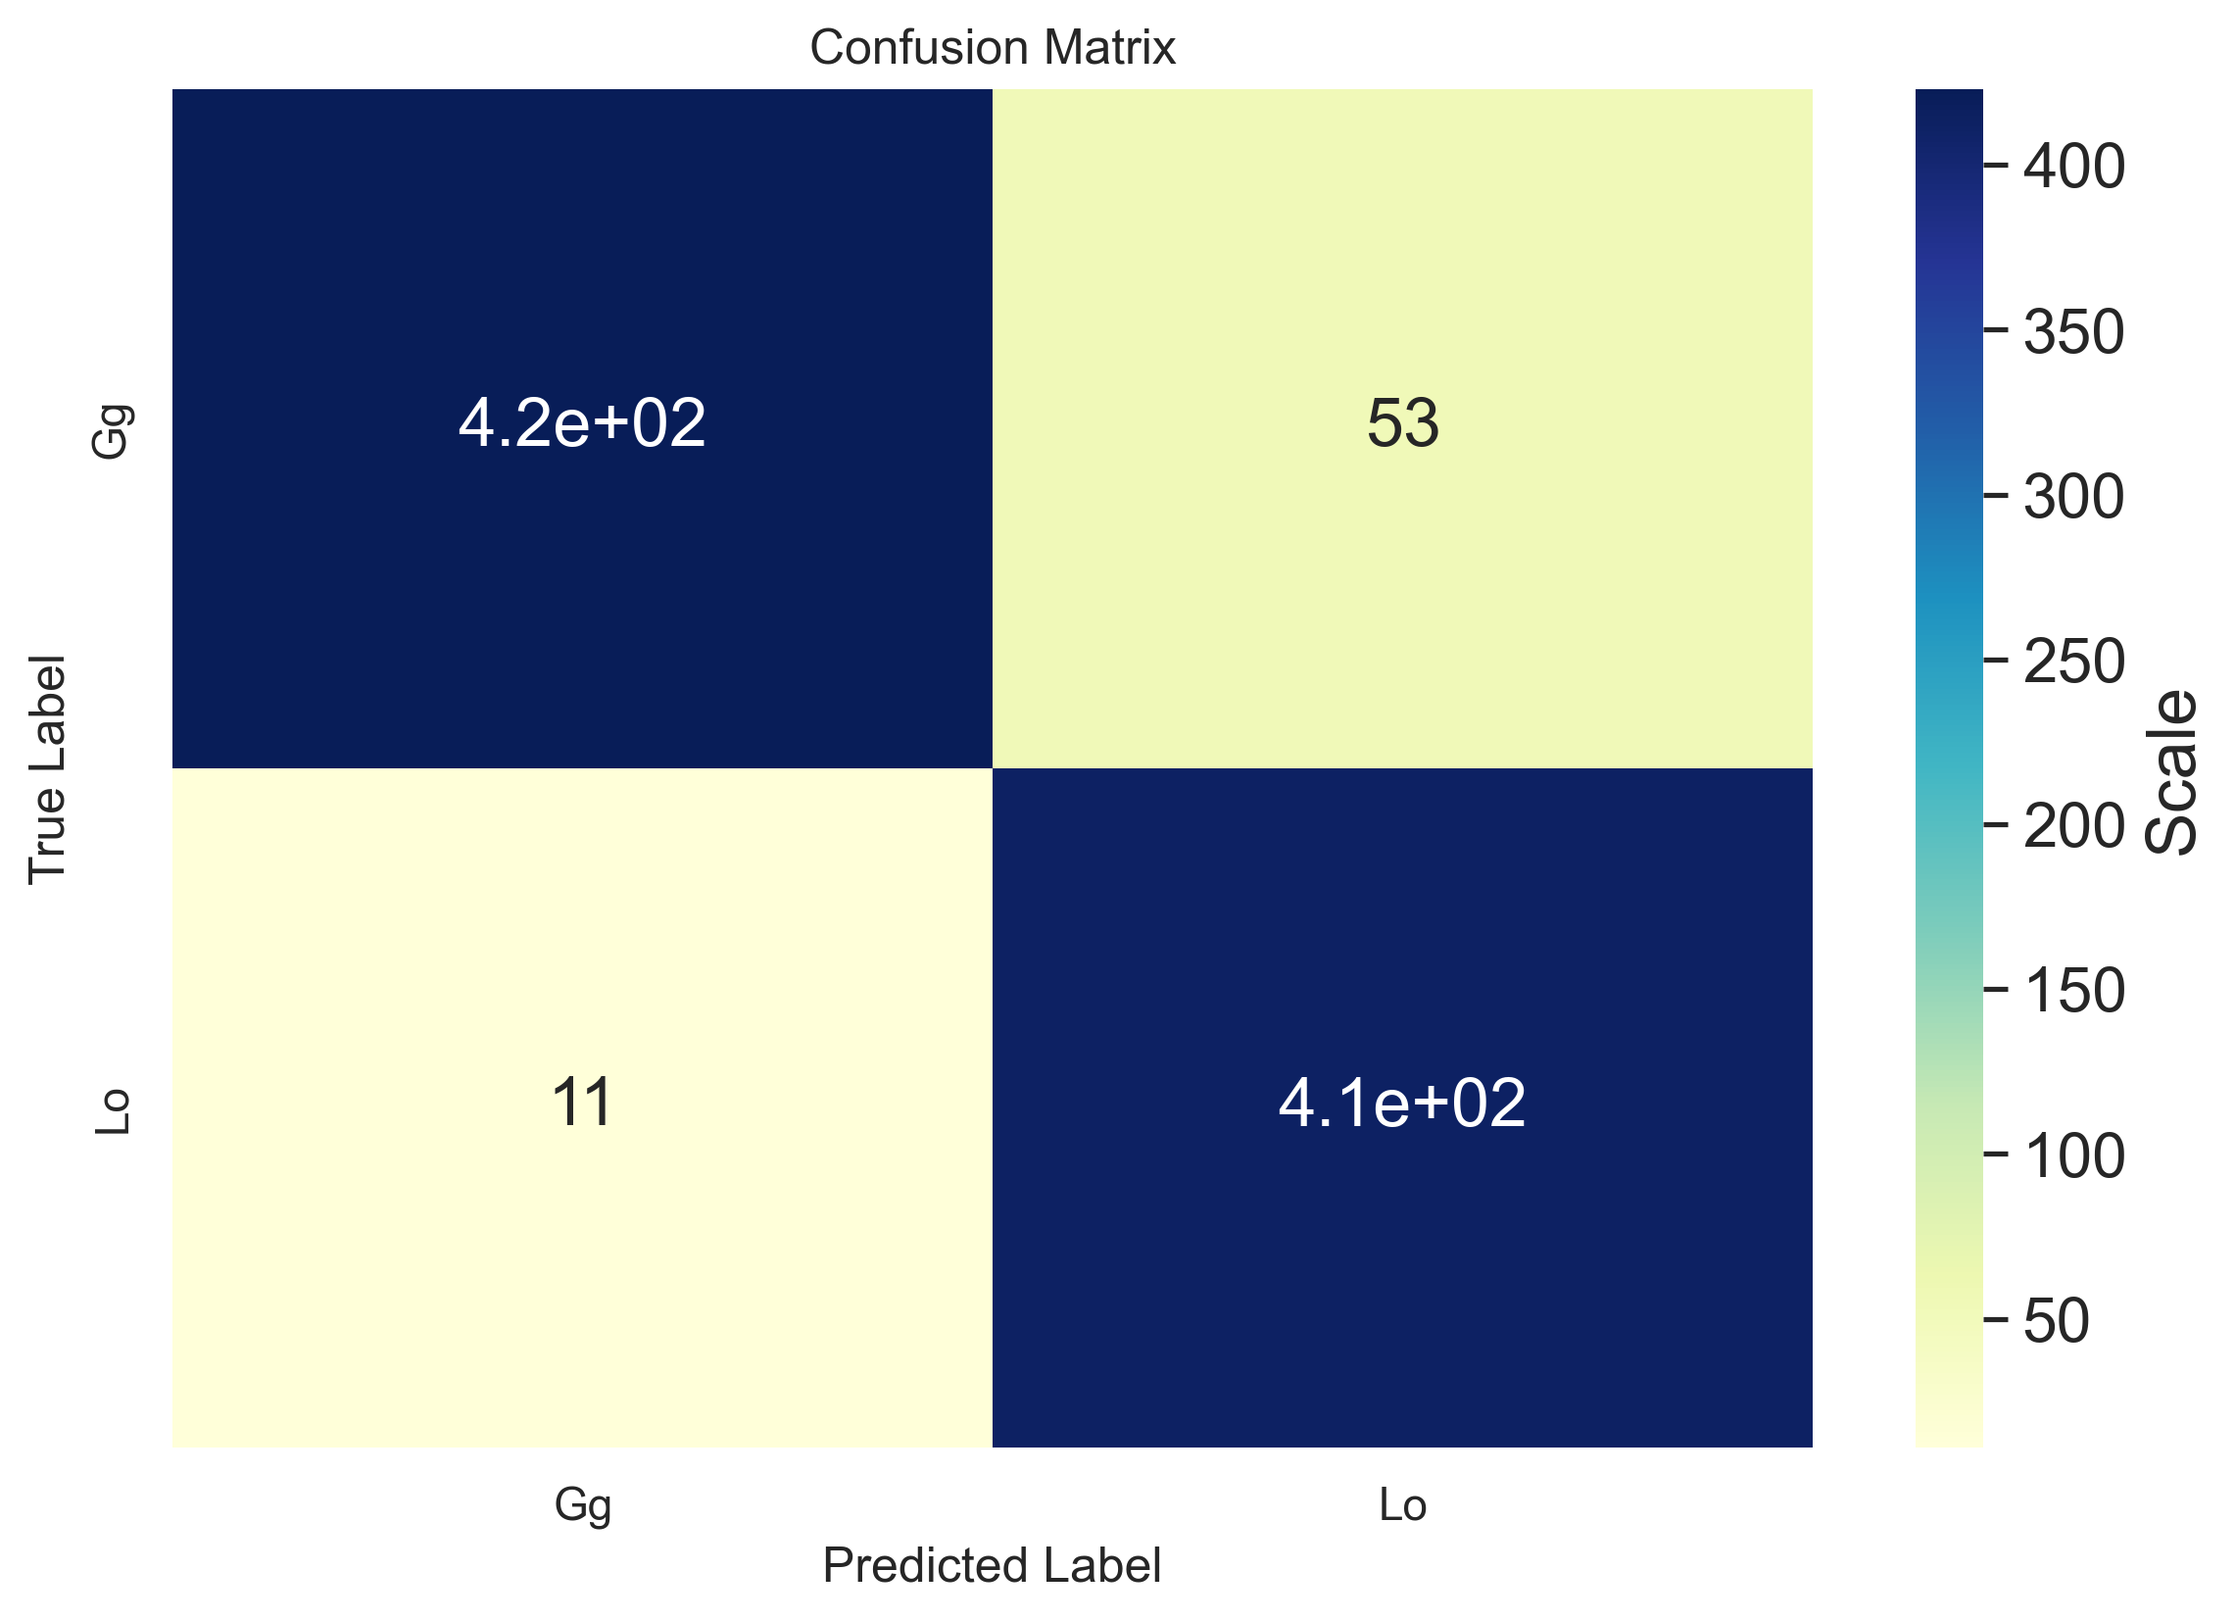
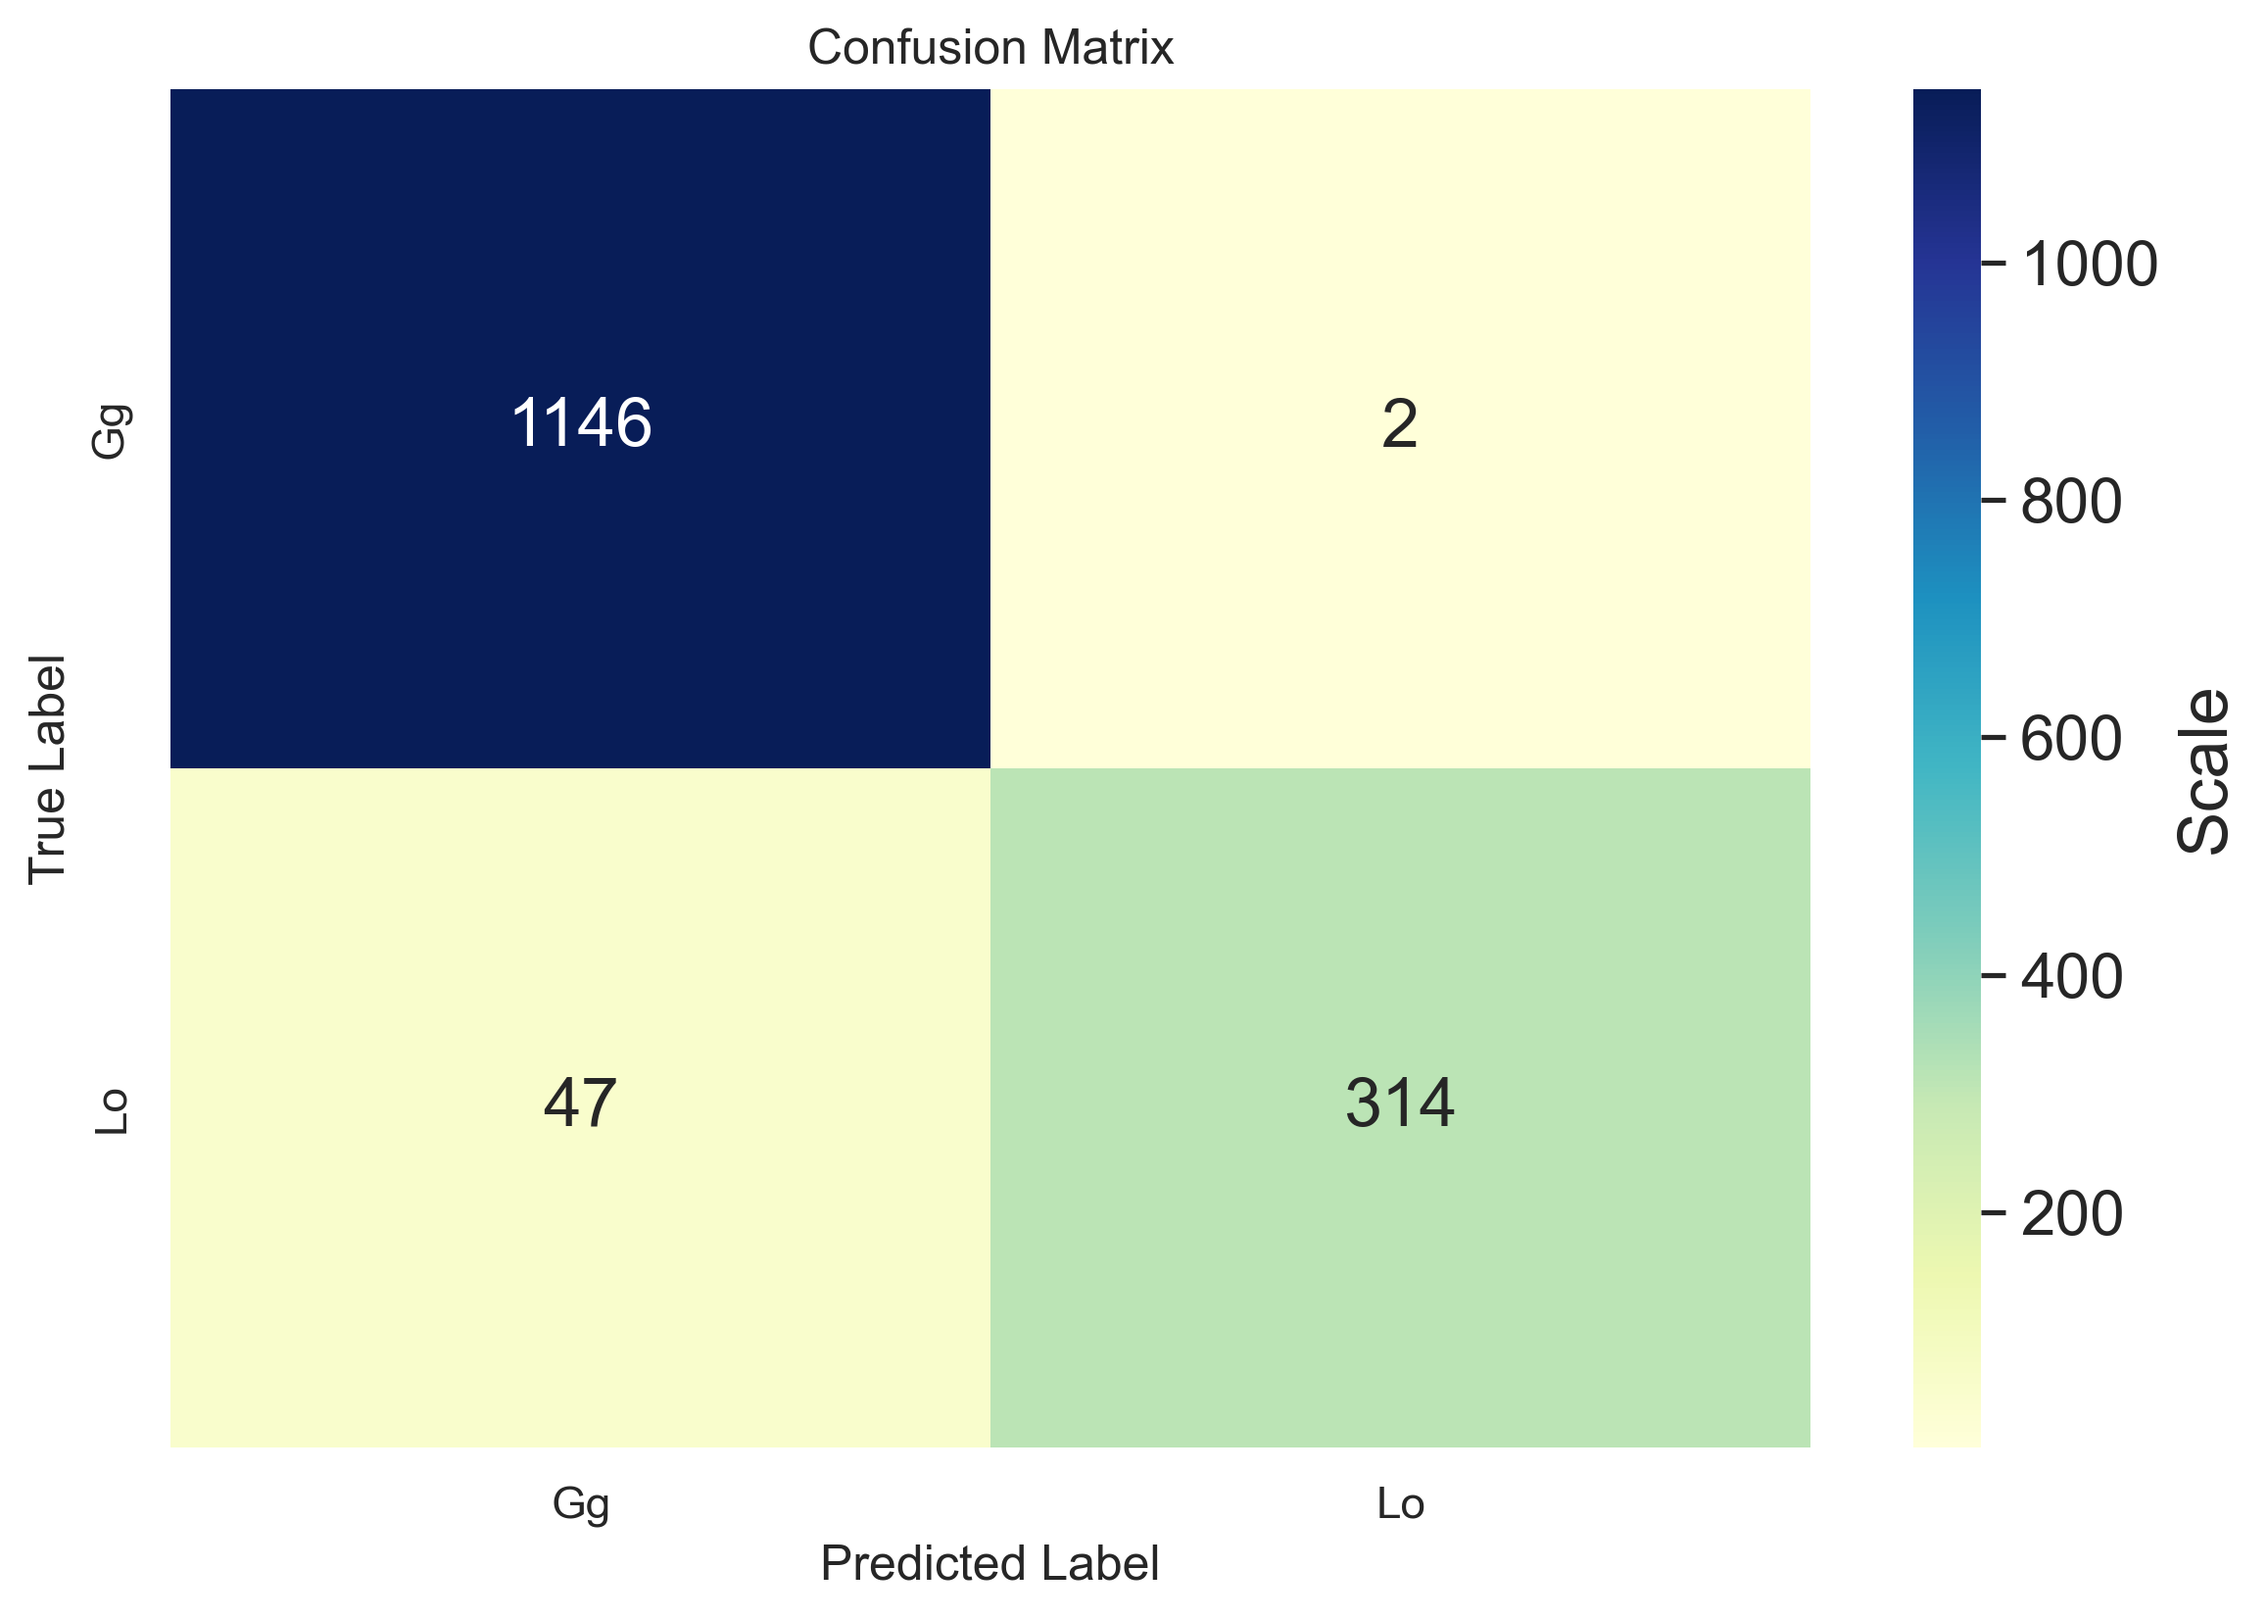
improved relu neural net

diff --git a/pre_processing.py b/pre_processing.py
@@ -4,10 +4,11 @@ from sklearn.model_selection import train_test_split
 import os
 
 def pre_processing(data_directory, use_onlyN):
+    # grab directory in data_directory list
     gg_dir = os.path.abspath(data_directory[0])
     lo_dir = os.path.abspath(data_directory[1])
 
-    # get list of click files for each species
+    # create list of files for each species
     ggfiles = util.get_files(gg_dir, ".czcc", use_onlyN)
     lofiles = util.get_files(lo_dir, ".czcc", use_onlyN)
 
@@ -16,17 +17,18 @@ def pre_processing(data_directory, use_onlyN):
     lometa_data = util.parse_files(lofiles)
     test_meta_data = ggmeta_data[0]
 
-    # create dictionaries keyed by day
-    # key=datetime.start value=list[tuples (.site, label, .start, .features)]
+    # create dictionaries key is day and value is list of tuples with HARP file metadata
+    # key=datetime.start value=list[(.site, label, .start, .features), ...]
     gg_day_dict = split_by_day(ggmeta_data)
     lo_day_dict = split_by_day(lometa_data)
+
 
     # create lists of days in dictionaries
     gg_keys = list(gg_day_dict.keys())
     lo_keys = list(lo_day_dict.keys())
-
-    gg_train_test_days = train_test_split(gg_keys, test_size=0.33, random_state=42)
-    lo_train_test_days = train_test_split(lo_keys, test_size=0.33, random_state=42)
+    # test_size 0.33
+    gg_train_test_days = train_test_split(gg_keys, test_size=0.66, random_state=42)
+    lo_train_test_days = train_test_split(lo_keys, test_size=0.66, random_state=42)
 
     gg_train_days = gg_train_test_days[0]
     gg_test_days = gg_train_test_days[1]

diff --git a/dolphin_id.py b/dolphin_id.py
@@ -28,7 +28,7 @@ def dolphin_classifier(data_directory):
 
     plt.ion()   # enable interactive plotting
 
-    #use_onlyN = np.Inf  # use this to get all files
+    # use this to get all files
     use_onlyN = np.Inf
 
     gg_day_dict, gg_train_days, gg_test_days, lo_day_dict, lo_train_days, lo_test_days = pre_processing(data_directory, use_onlyN)
@@ -39,6 +39,7 @@ def dolphin_classifier(data_directory):
 
     model = Sequential()
     model.add(Dense(100, input_dim=20, activation='relu', kernel_regularizer='l2'))
+    model.add(Dense(100, activation='relu', kernel_regularizer='l2'))
     model.add(Dense(100, activation='relu', kernel_regularizer='l2'))
     model.add(Dense(100, activation='relu', kernel_regularizer='l2'))
     model.add(Dense(2, activation='softmax'))
@@ -57,11 +58,11 @@ def dolphin_classifier(data_directory):
     error_rate = (confoos[0][1] + confoos[1][0]) / (confoos[0][0] + confoos[1][1])
     print("The error rate is: ", error_rate)
 
-    seaborn.set(color_codes=True)
+    seaborn.set_theme(color_codes=True)
     plt.figure(1, figsize=(9, 6))
     plt.title("Confusion Matrix")
-    seaborn.set(font_scale=1.4)
-    ax = seaborn.heatmap(confoos, annot=True, cmap="YlGnBu", cbar_kws={'label': 'Scale'})
+    seaborn.set_theme(font_scale=1.4)
+    ax = seaborn.heatmap(confoos, annot=True, cmap="YlGnBu", cbar_kws={'label': 'Scale'}, fmt='g')
 
     labels = ["Gg", "Lo"]
     ax.set_xticklabels(labels)

diff --git a/create_data.py b/create_data.py
@@ -11,7 +11,8 @@ def create_train_data(train_days_gg, train_days_lo, gg_day_dict, lo_day_dict):
     for day in train_days_gg:
         # iterate through recordings in day
         for recording in gg_day_dict[day]:
-            # get row, col to make correct amount of labels
+            # get number of rows to make correct amount of labels
+            # col just byproduct of shape function
             row, col = recording.features.shape
             train_tensor_examples.append(recording.features)
             # create row amount of gg labels

diff --git a/README.md b/README.md
@@ -1,0 +1,40 @@
+Description:
+    Given a directory of HARP (High-frequency Acoustic Recording Packages) files for two dolphin species Gg and Lo;
+    this program serves to train a sequential neural network to accurately distinguish between species.
+
+Step by Step Process:
+
+1. Extract HARP acoustic files from included "features" directory
+    - parse files and store meta data in dictionary with key = date.time and value = [(.site, label, .start, .features), ...]
+    - 1 dictionary per species type; either "Gg" or "Lo"
+    - split "training" and "testing" days for both species
+
+2. Organize "features" metadata for Training Days
+    - Append .features to training data list
+    - Append a corresponding label to labels list i.e. [1,0] for Gg and [0,1] for Lo
+    - create weights for each species based on frequency of occurence in data
+
+3. Organize "features" metadata for Testing Days
+    - For every feature we will group its data into batches of 100 when possible
+    - For every batch a single corresponding label will be created which will be used when creating confusion matrix
+    - When testing the trained model our output will be based on 1 batch
+
+4. Model Training
+    - we use a Sequential neural network with ReLU activation layers to avoid disappearing gradient
+    - we use a Softmax activation output layer to classify data as Gg or Lo based on the probability that it is one
+    or the other
+
+5. Model Testing
+    - we test our model with our previously created batches and determine what classification it falls under
+
+6. Confusion Matrix
+    - display our True Positives, False Positives, True Negatives, False Negatives
+
+Packages Required:
+A Conda YML file is provided that will install the packages
+needed for this project.  See conda.yml for instructions on how to
+set up a tensorflow environment in Anaconda.
+
+If you are not using Anaconda, you should be able to install these
+packages manually with pip.
+
